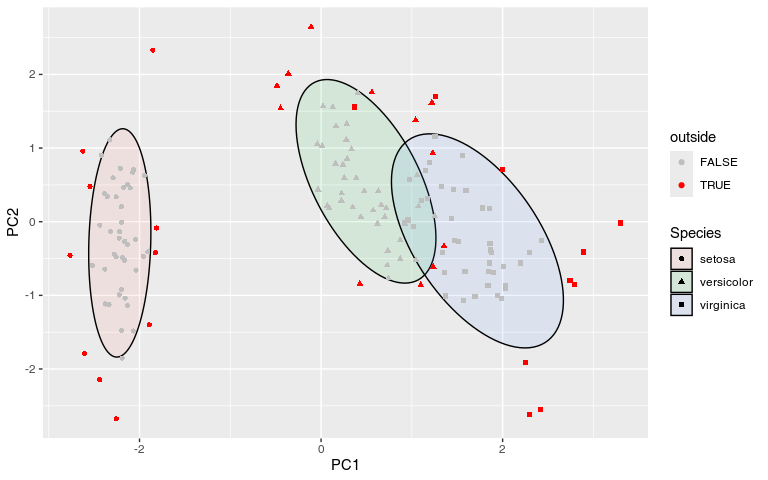
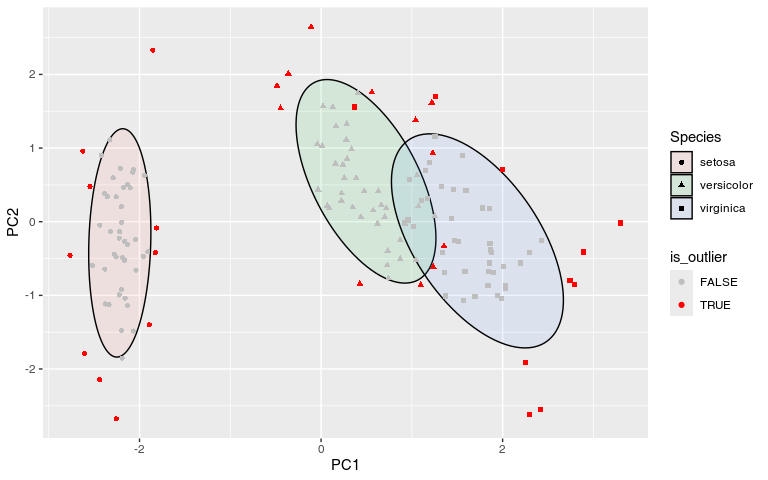
changed parameters from ci to level and from outside to is_outlier

Changed region(s): [[0.875, 0.25, 0.9688, 0.6875]]

diff --git a/README.md b/README.md
@@ -8,18 +8,21 @@
 coverage](https://codecov.io/gh/january3/gghotelling/graph/badge.svg)](https://app.codecov.io/gh/january3/gghotelling)
 <!-- badges: end -->
 
-Hotelling data ellipses are using the Hotelling T² distribution to
-create coverage regions for the distribution of the data, often used in
-outlier detection in multivariate data. This is different from the
-ellipses returned by the `ellipse::ellipse()` or `car::dataEllipse()`
-functions, which produce data ellipses based on a χ² (chi-square)
-contour, representing the shape and spread of the data distribution.
+Hotelling data ellipses use the Hotelling T² distribution to create
+coverage regions for the distribution of the data, often used in outlier
+detection in multivariate data. This is different from the ellipses
+returned by the `ellipse::ellipse()` or `car::dataEllipse()` functions,
+which produce data ellipses based on a χ² (chi-square) contour,
+representing the shape and spread of the data distribution.
 
 This is also slightly different from the `stat_ellipse()` can be used to
 create data ellipses (much like the ones from `ellipse::ellipse()`), and
-also Hotelling data (?) ellipses. Unlike stat_ellipse(), it can also
-take the `fill` aesthetic for a visually pleasing representation of the
-ellipses.
+also certain type of t ellipses. In contrast, gghotelling provides
+explicit Hotelling T² data ellipses and Hotelling T² confidence
+ellipses, with a clear distinction between the two.
+
+Unlike stat_ellipse(), it can also take the `fill` aesthetic for a
+visually pleasing representation of the ellipses.
 
 A lot of functionality overlaps with `ggfortify::ggbiplot()` (and by
 extension `autoplot.pca_class`), but this function is less flexible than
@@ -56,7 +59,7 @@ pca <- prcomp(iris[, 1:4], scale.=TRUE)
 df <- cbind(iris, pca$x)
 
 ggplot(df, aes(PC1, PC2)) +
-  geom_hotelling(ci=.99) +
+  geom_hotelling(level=.99) +
   geom_point()
 ```
 
@@ -84,7 +87,7 @@ ggplot(df, aes(PC1, PC2, color=Species)) +
 
 # set custom CI/coverage level
 ggplot(df, aes(PC1, PC2, color=Species)) +
-  geom_hotelling(alpha=0.1, aes(fill = Species), ci=.99) +
+  geom_hotelling(alpha=0.1, aes(fill = Species), level=.99) +
   geom_point()
 ```
 
@@ -95,9 +98,9 @@ be used to identify multivariate outliers.
 
 ``` r
 ggplot(df, aes(PC1, PC2, group=Species)) +
-  geom_hotelling(ci = 0.75, alpha=0.1, aes(fill = Species)) +
+  geom_hotelling(level = 0.75, alpha=0.1, aes(fill = Species)) +
   scale_color_manual(values=c("TRUE"="red", "FALSE"="grey")) +
-  stat_hotelling_points(ci = .75, aes(shape = Species, color = after_stat(outside)))
+  stat_hotelling_points(level = .75, aes(shape = Species, color = after_stat(is_outlier)))
 ```
 
 <img src="man/figures/README-example2-1.png" width="50%" style="display: block; margin: auto;" />
